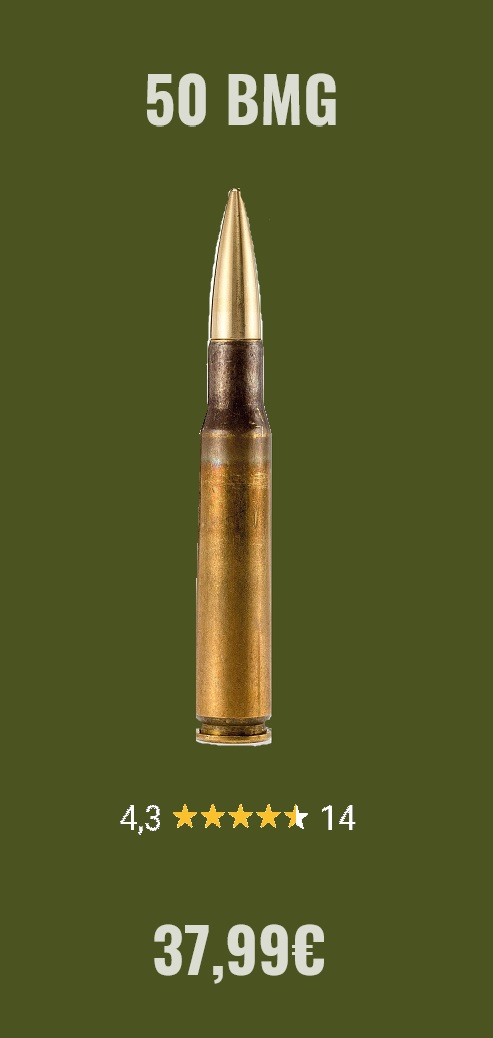
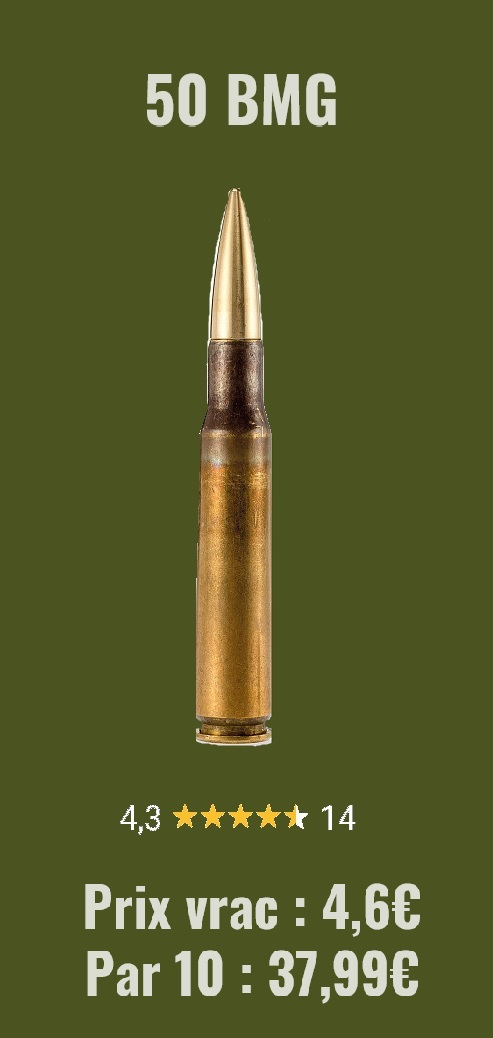
actualisation prix muni

Changed region(s): [[0.1521, 0.8324, 0.8519, 0.9865]]

diff --git a/src/main/java/com/example/javarmes/Vue/Menu.java b/src/main/java/com/example/javarmes/Vue/Menu.java
@@ -907,41 +907,48 @@ menupresentation();
 
         Image poing1 = new Image(Objects.requireNonNull(getClass().getResourceAsStream("/Images/muni1.jpg")));
         ImageView Poing1 = new ImageView(poing1);
-        Poing1.setFitWidth(300);
-        Poing1.setFitHeight(400);
-        Poing1.setLayoutX(100);
-        Poing1.setLayoutY(300);
+        Poing1.setFitWidth(210);
+        Poing1.setFitHeight(310);
+        Poing1.setLayoutX(120);
+        Poing1.setLayoutY(350);
 
         Image poing2 = new Image(Objects.requireNonNull(getClass().getResourceAsStream("/Images/muni2.jpg")));
         ImageView Poing2 = new ImageView(poing2);
-        Poing2.setFitWidth(300);
-        Poing2.setFitHeight(400);
-        Poing2.setLayoutX(400);
-        Poing2.setLayoutY(300);
+        Poing2.setFitWidth(210);
+        Poing2.setFitHeight(310);
+        Poing2.setLayoutX(350);
+        Poing2.setLayoutY(350);
 
         Image muni3 = new Image(Objects.requireNonNull(getClass().getResourceAsStream("/Images/muni3.jpg")));
         ImageView Muni3 = new ImageView(muni3);
-        Muni3.setFitWidth(300);
-        Muni3.setFitHeight(400);
-        Muni3.setLayoutX(700);
-        Muni3.setLayoutY(300);
+        Muni3.setFitWidth(210);
+        Muni3.setFitHeight(310);
+        Muni3.setLayoutX(600);
+        Muni3.setLayoutY(350);
 
         Image muni4 = new Image(Objects.requireNonNull(getClass().getResourceAsStream("/Images/muni4.jpg")));
         ImageView Muni4 = new ImageView(muni4);
-        Muni4.setFitWidth(300);
-        Muni4.setFitHeight(400);
-        Muni4.setLayoutX(1000);
-        Muni4.setLayoutY(300);
+        Muni4.setFitWidth(210);
+        Muni4.setFitHeight(310);
+        Muni4.setLayoutX(850);
+        Muni4.setLayoutY(350);
 
         Image muni5 = new Image(Objects.requireNonNull(getClass().getResourceAsStream("/Images/muni5.jpg")));
         ImageView Muni5 = new ImageView(muni5);
-        Muni5.setFitWidth(300);
-        Muni5.setFitHeight(400);
-        Muni5.setLayoutX(1300);
-        Muni5.setLayoutY(300);
+        Muni5.setFitWidth(210);
+        Muni5.setFitHeight(310);
+        Muni5.setLayoutX(1070);
+        Muni5.setLayoutY(350);
+
+        Image muni6 = new Image(Objects.requireNonNull(getClass().getResourceAsStream("/Images/muni6.jpg")));
+        ImageView Muni6 = new ImageView(muni6);
+        Muni6.setFitWidth(210);
+        Muni6.setFitHeight(310);
+        Muni6.setLayoutX(1300);
+        Muni6.setLayoutY(350);
 
 
-        panne.getChildren().addAll(Poing1,Poing2,Bande,Bande1,downButton,Muni3,Muni5,Muni4);
+        panne.getChildren().addAll(Poing1,Poing2,Bande,Bande1,downButton,Muni3,Muni5,Muni4,Muni6);
         Scene settle = new Scene(panne, 1600, 800);
 
         settle.getRoot().setStyle("-fx-background-color: #4B5320; "
